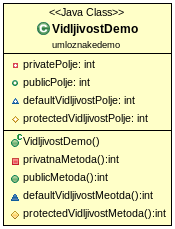
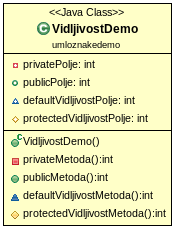
sitne isprvke u komentarima

Changed region(s): [[0.2857, 0.6725, 0.6857, 0.7336], [0.6286, 0.8253, 0.6857, 0.8865]]

diff --git a/OOP-nedelja2/src/konstruktordemo/Student.java b/OOP-nedelja2/src/konstruktordemo/Student.java
@@ -12,10 +12,10 @@ public class Student {
 	private int godinaUpisa;
 	private int godinaStudija;	
 	
-	// kontruktori klase - moze ih biti vise sa različitim tiovima argumenata
+	// konstruktori klase - moze ih biti vise sa različitim tipovima argumenata
 	
 	public Student(){	
-		this(-1,"nepoznat",-1);  // poziv drugog kontruktora sa ulaznim argumentima tipa (int, String, int)
+		this(-1,"nepoznat",-1);  // poziv drugog konstruktora sa ulaznim argumentima tipa (int, String, int)
 	}
 	
 	

diff --git a/OOP-nedelja2/src/umloznakedemo/VidljivostDemo.java b/OOP-nedelja2/src/umloznakedemo/VidljivostDemo.java
@@ -7,7 +7,7 @@ public class VidljivostDemo {
 	int defaultVidljivostPolje;
 	protected int protectedVidljivostPolje;
 	
-	private int privatnaMetoda() {
+	private int privateMetoda() {
 		return privatePolje;
 	}
 	
@@ -15,7 +15,7 @@ public class VidljivostDemo {
 		return publicPolje;
 	}
 	
-	int defaultVidljivostMeotda() {
+	int defaultVidljivostMetoda() {
 		return defaultVidljivostPolje;
 	}
 	

diff --git a/OOP-nedelja2/src/konstruktordemo/Test.java b/OOP-nedelja2/src/konstruktordemo/Test.java
@@ -6,7 +6,7 @@ public class Test {
 
 	public static void main(String[] args) {
 		
-		// tri nacina kreiranja studenta, pozivom tri razlicita kontruktora
+		// tri nacina kreiranja studenta, pozivom tri razlicita konstruktora
 		
 		Student s1 = new Student();
 		

diff --git a/OOP-nedelja1/src/stud/Student.java b/OOP-nedelja1/src/stud/Student.java
@@ -3,7 +3,7 @@ package stud;
 public class Student {
 	
 	
-	// atributi (polja) klase student 
+	// atributi (polja) klase Student 
 	private String ime;
 	private String prezime;
 	private int brojIndeksa;
